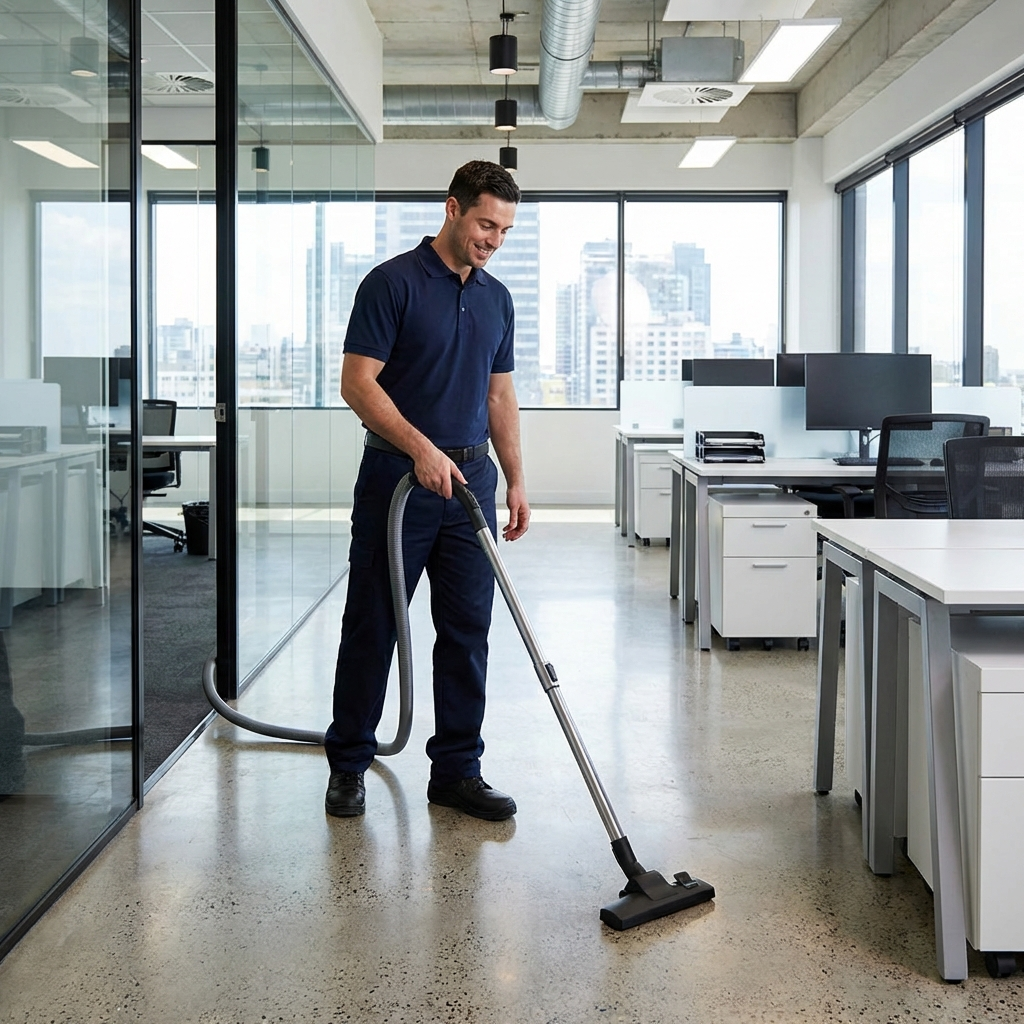
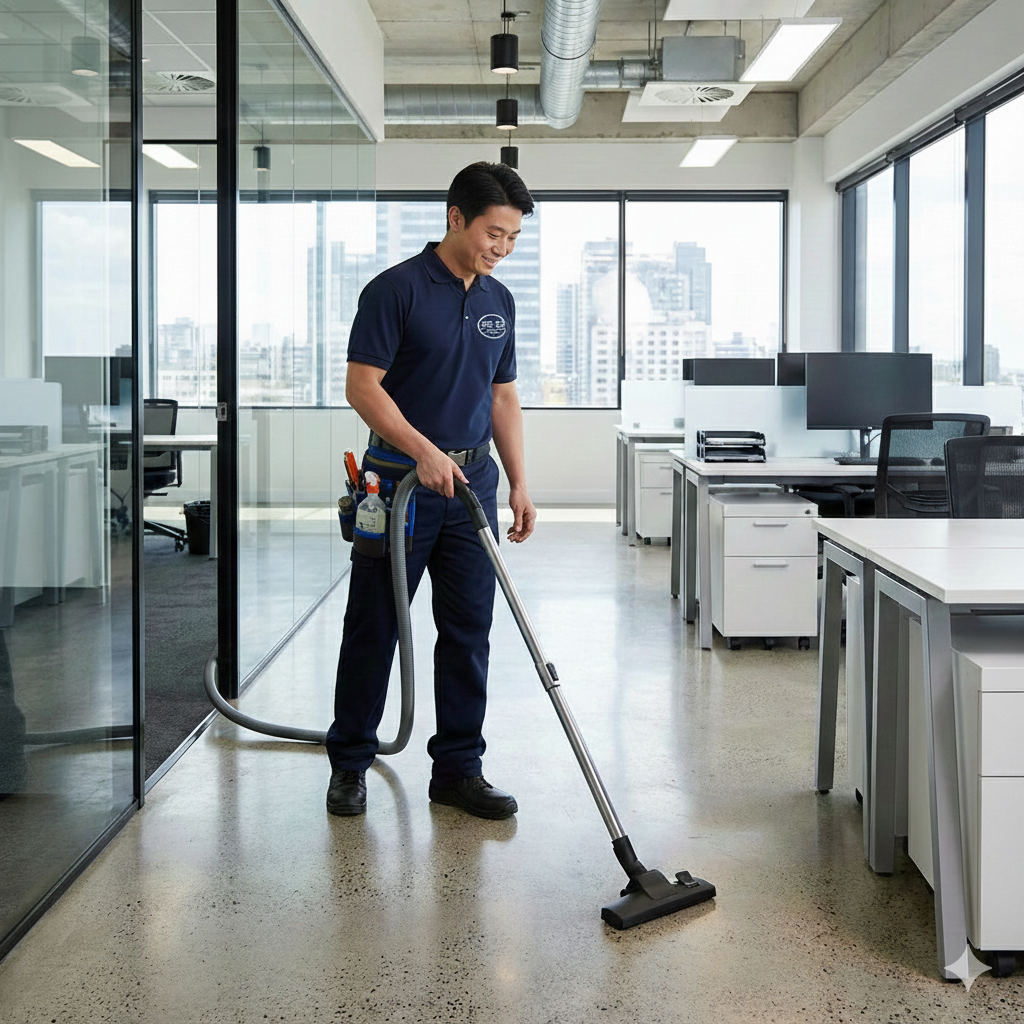
Update testimonials with new client images

diff --git a/src/components/Header.tsx b/src/components/Header.tsx
@@ -1,32 +1,16 @@
 import { useState, useEffect } from "react";
-import { Menu, X, ChevronDown } from "lucide-react";
+import { Menu, X } from "lucide-react";
 import { Button } from "./ui/button";
 import { motion, AnimatePresence } from "motion/react";
 import { useCartStore } from "../store/cartStore";
 
 export function Header() {
     const [isMenuOpen, setIsMenuOpen] = useState(false);
-    const [isVisible, setIsVisible] = useState(false);
-    const [isScrolled, setIsScrolled] = useState(false);
     const { setIsOpen } = useCartStore();
-
-    useEffect(() => {
-        const handleScroll = () => {
-            const heroHeight = window.innerHeight; // 동영상 화면 높이 (뷰포트 기준)
-            const scrollY = window.scrollY;
-
-            // 동영상의 1/4 정도 가려지면 (25% 스크롤) 헤더 표시
-            // 동영상이 3/4 이상 보이면 (25% 미만 스크롤) 헤더 숨김
-            setIsVisible(scrollY > heroHeight * 0.25);
-            setIsScrolled(scrollY > 20);
-        };
-        window.addEventListener("scroll", handleScroll);
-        return () => window.removeEventListener("scroll", handleScroll);
-    }, []);
 
     return (
         <header
-            className={`fixed top-0 left-0 right-0 z-50 transition-all duration-300 ${isScrolled ? "bg-white/95 backdrop-blur-lg shadow-md" : "bg-transparent"}`}
+            className="fixed top-0 left-0 right-0 z-50 transition-all duration-300 bg-white/95 backdrop-blur-lg shadow-md"
         >
             <div className="max-w-7xl mx-auto px-4 sm:px-6 lg:px-8">
                 <div className="flex items-center justify-between h-20">
@@ -44,8 +28,7 @@ export function Header() {
                             <motion.a
                                 key={item}
                                 href={`#${["services", "how-it-works", "testimonials"][idx]}`}
-                                className={`text-base transition-colors relative group ${isScrolled ? "text-gray-700 hover:text-blue-600" : "text-gray-800 hover:text-blue-600"
-                                    }`}
+                                className="text-base transition-colors relative group text-gray-700 hover:text-blue-600"
                                 whileHover={{ y: -2 }}
                             >
                                 {item}
@@ -68,9 +51,9 @@ export function Header() {
                         onClick={() => setIsMenuOpen(!isMenuOpen)}
                     >
                         {isMenuOpen ? (
-                            <X className={`h-6 w-6 ${isScrolled ? "text-gray-900" : "text-gray-900"}`} />
+                            <X className="h-6 w-6 text-gray-900" />
                         ) : (
-                            <Menu className={`h-6 w-6 ${isScrolled ? "text-gray-900" : "text-gray-900"}`} />
+                            <Menu className="h-6 w-6 text-gray-900" />
                         )}
                     </button>
                 </div>

diff --git a/src/components/Testimonials.tsx b/src/components/Testimonials.tsx
@@ -13,7 +13,7 @@ const testimonials = [
     {
         name: "스타트업 라운지",
         role: "경기 판교",
-        image: "./assets/clients/client_2.png",
+        image: "./assets/clients/client_2_new.png",
         rating: 5,
         text: "직원들이 출근할 때마다 상쾌함을 느낍니다. 정기 관리 덕분에 업무 효율도 오르는 것 같아요.",
     },
@@ -35,7 +35,7 @@ const testimonials = [
     {
         name: "더 피트니스",
         role: "경기 일산",
-        image: "./assets/clients/client_nurse.png",
+        image: "./assets/clients/client_fitness_new.png",
         rating: 5,
         text: "운동 기구 사이사이 먼지까지 꼼꼼하게 제거해주셔서 회원님들 만족도가 정말 높습니다.",
         featured: true,
@@ -43,7 +43,7 @@ const testimonials = [
     {
         name: "공유오피스 워크",
         role: "대전 서구",
-        image: "./assets/clients/client_owner.png",
+        image: "./assets/clients/client_owner_new.png",
         rating: 5,
         text: "다양한 사람들이 오가는 곳인데 화장실부터 회의실까지 항상 완벽하게 관리해주십니다.",
     },
